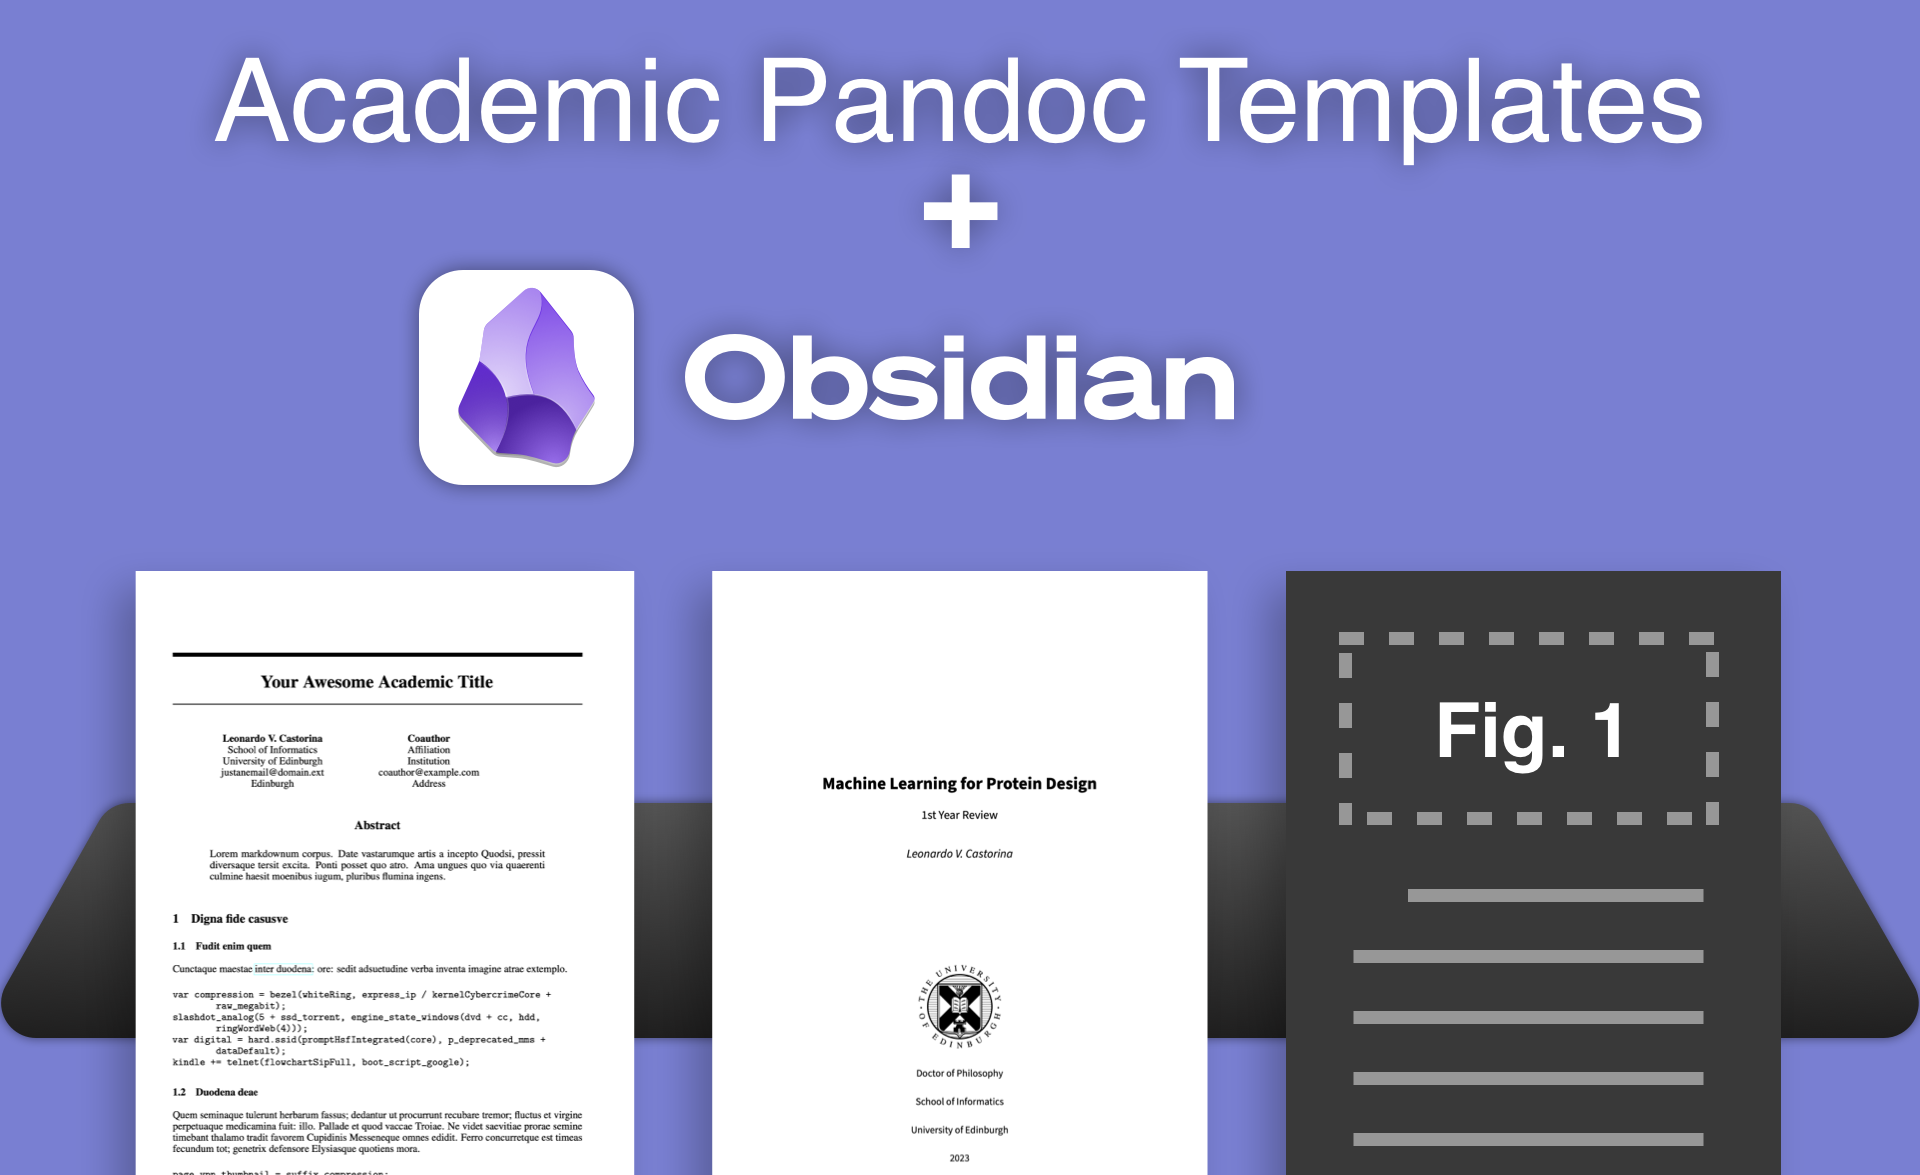
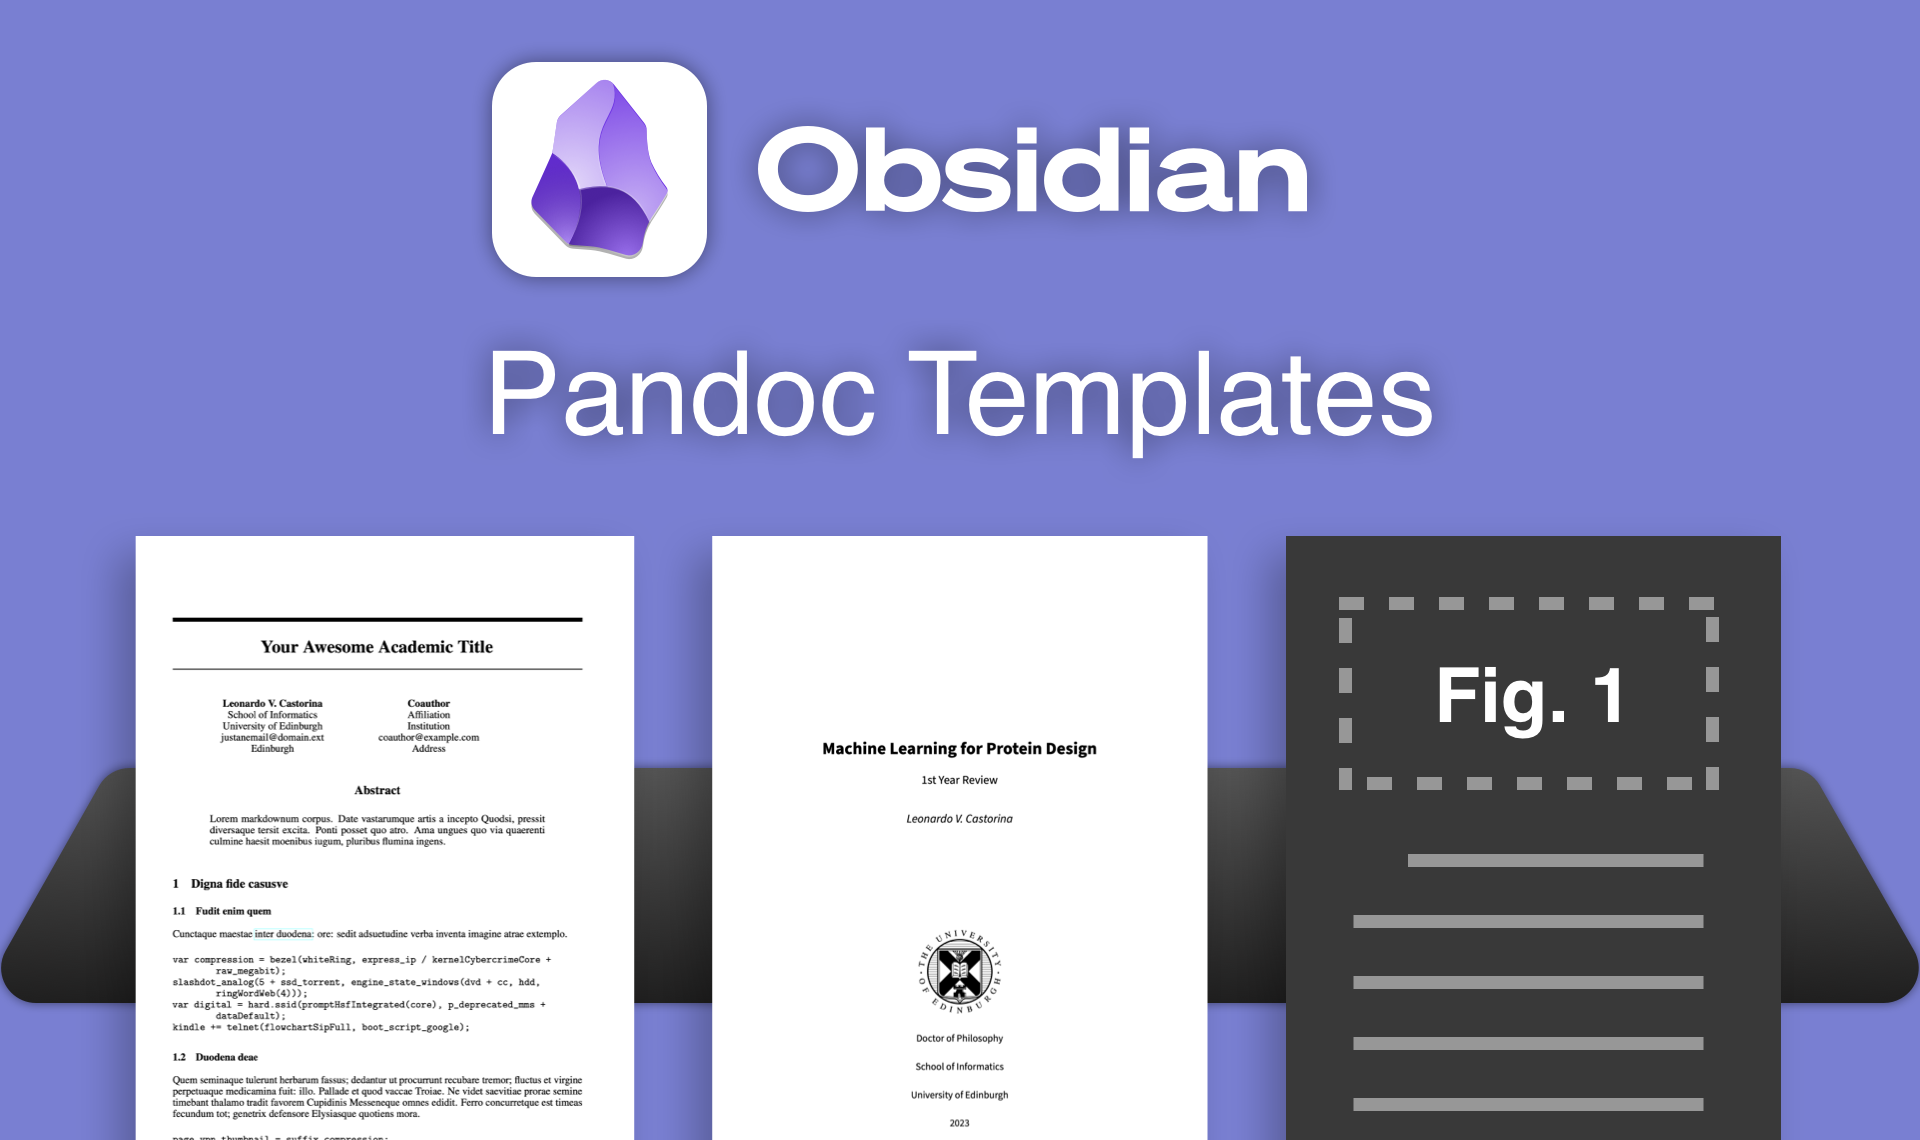
Fix CSLreference + change repo name

diff --git a/neurips_paper/neurips.tex b/neurips_paper/neurips.tex
@@ -32,7 +32,31 @@
 \usepackage{nicefrac}       % compact symbols for 1/2, etc.
 \usepackage{microtype}      % microtypography
 \usepackage{xcolor}         % colors
-
+$if(csl-refs)$
+\newlength{\cslhangindent}
+\setlength{\cslhangindent}{1.5em}
+\newlength{\csllabelwidth}
+\setlength{\csllabelwidth}{3em}
+\newlength{\cslentryspacingunit} % times entry-spacing
+\setlength{\cslentryspacingunit}{\parskip}
+\newenvironment{CSLReferences}[2] % #1 hanging-ident, #2 entry spacing
+ {% don't indent paragraphs
+  \setlength{\parindent}{0pt}
+  % turn on hanging indent if param 1 is 1
+  \ifodd #1
+  \let\oldpar\par
+  \def\par{\hangindent=\cslhangindent\oldpar}
+  \fi
+  % set entry spacing
+  \setlength{\parskip}{#2\cslentryspacingunit}
+ }%
+ {}
+\usepackage{calc}
+\newcommand{\CSLBlock}[1]{#1\hfill\break}
+\newcommand{\CSLLeftMargin}[1]{\parbox[t]{\csllabelwidth}{#1}}
+\newcommand{\CSLRightInline}[1]{\parbox[t]{\linewidth - \csllabelwidth}{#1}\break}
+\newcommand{\CSLIndent}[1]{\hspace{\cslhangindent}#1}
+$endif$
 
 \title{$title$}
 

diff --git a/README.md b/README.md
@@ -1,4 +1,4 @@
-# Academic Pandoc Templates
+# Obsidian Pandoc Templates
 
 <div align="center">
   <img src="img/intro.png"><br>
